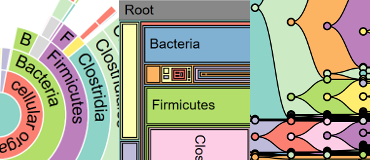
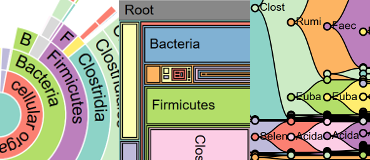
[taxonomy] [clonal] Add text + thumbnail

diff --git a/app/common/charts/clonal.js b/app/common/charts/clonal.js
@@ -3,7 +3,7 @@ import {hierarchy, partition} from 'd3-hierarchy';
 import {transition} from 'd3-transition';
 import {scaleOrdinal} from 'd3-scale';
 import {schemeSet3} from 'd3-scale-chromatic';
-import {rgb} from 'd3-color';
+import {line, curveLinear} from 'd3-shape';
 
 // workaround for event manager (d3sel.event)
 import * as d3sel from 'd3-selection';
@@ -15,7 +15,7 @@ const d4 = {
   transition,
   scaleOrdinal,
   schemeSet3,
-  rgb
+  curveLinear, line
 };
 
 export default function Chart(p) {
@@ -36,6 +36,8 @@ export default function Chart(p) {
   p.color = p.color || null;
 
   const color = d4.scaleOrdinal(p.color ? p.color : d4.schemeSet3);
+  const mw = 6; // left/right margin for labels;
+  const mh = 22; // minimal height for label;
 
   // consume action: mutate data and apply changes
   chart.consumer = function(action) {
@@ -47,7 +49,7 @@ export default function Chart(p) {
         p.data = action.data;
         chart.update();
         break;
-/*      case 'collapse':
+    /*  case 'collapse':
         action.node.collapsed = true;
         collapse(action.node);
         chart.update();
@@ -65,7 +67,7 @@ export default function Chart(p) {
         action.node.hover = false;
         hoverOut(action.node);
         break;
-  */
+      */
       default:
         // console.log('unknown event');
     }
@@ -130,6 +132,10 @@ export default function Chart(p) {
       .style('stroke', '#000')
       .style('stroke-width', '1.5px')
       .style('pointer-events', 'none');
+
+    // group for labels
+    svg.append('g').attr('class', 'labels')
+    .attr('transform', `translate(${p.margin.left}, ${p.margin.top})`);
   };
 
   // accessor
@@ -166,7 +172,7 @@ export default function Chart(p) {
 
     // edges
     sel = d4.select(`#${p.id}`).select('.edges').selectAll('.edge')
-      .data(root.descendants().filter(d => !d.data.hidden), d => d.data.name);
+      .data(root.descendants().filter(d => !d.data.hidden), d => d.data.id + d.data.data.sample);
     // exit
     sel.exit().transition(t1)
       .attr('d', d => area(d, false))
@@ -194,7 +200,7 @@ export default function Chart(p) {
 
     // nodes
     sel = d4.select(`#${p.id}`).select('.nodes').selectAll('.node')
-        .data(root.descendants().filter(d => !d.data.hidden), d => d.data.name);
+        .data(root.descendants().filter(d => !d.data.hidden), d => d.data.id + d.data.data.sample);
     // exit
     sel.exit().transition(t1)
       .attr('transform', d => {
@@ -253,7 +259,62 @@ export default function Chart(p) {
     /* sel.select('text')
       .text(d => d.data.name);
     */
+
+    // path
+    sel = d4.select(`#${p.id}`).select('.labels').selectAll('.path') // height > 1
+      .data(root.descendants().filter(d => !d.data.hidden && d.x1 - d.x0 > mh), d => d.data.id + d.data.data.sample);
+    // exit
+    sel.exit().transition(t1)
+      .attr('d', d => line(d, false))
+      .remove();
+    // update
+    sel.transition(t2)
+      .attr('d', d => line(d, true));
+    // add
+    add = sel.enter().append('path')
+      .attr('id', d => `map${p.id}${d.data.id}${d.data.data.sample}`)
+      .attr('d', d => line(d, false))
+      .style('opacity', 0);
+    // update
+    sel = add.merge(sel);
+    sel.transition(t3)
+    .attr('d', d => line(d, true));
+
+    // text
+    sel = d4.select(`#${p.id}`).select('.labels').selectAll('.text') // height > 1
+      .data(root.descendants().filter(d => !d.data.hidden && d.x1 - d.x0 > mh), d => d.data.id + d.data.data.sample);
+    // exit
+    sel.exit().transition(t1)
+      .remove();
+    // add
+    add = sel.enter().append('text')
+      .attr('class', d => `t${d.data.id}${d.data.data.sample}`)
+      .attr('text-anchor', 'left')
+      .attr('dy', '0.5ex')
+      .style('pointer-events', 'none')
+      .append('textPath')
+        .attr('xlink:href', d => `#map${p.id}${d.data.id}${d.data.data.sample}`)
+        .text(d => d.data.name);
   };
+
+  function line(d, mode) {
+    const coord = middle(d);
+    let ax = coord[0];
+    const ay = coord[1];
+    let bx = coord[0];
+    const by = coord[1];
+    if (mode) {
+      ax += mw;
+      bx = d.children ? bx + (2 * p.space) - (2 * mw) : p.width - p.margin.left - p.margin.right;
+    }
+
+    const path = d4.line()
+      .x(t => t[0])
+      .y(t => t[1])
+      .curve(d4.curveLinear);
+
+    return path([[ax, ay], [bx, by]]);
+  }
 
   function tip(state, d) {
     if (state === 'show') {
